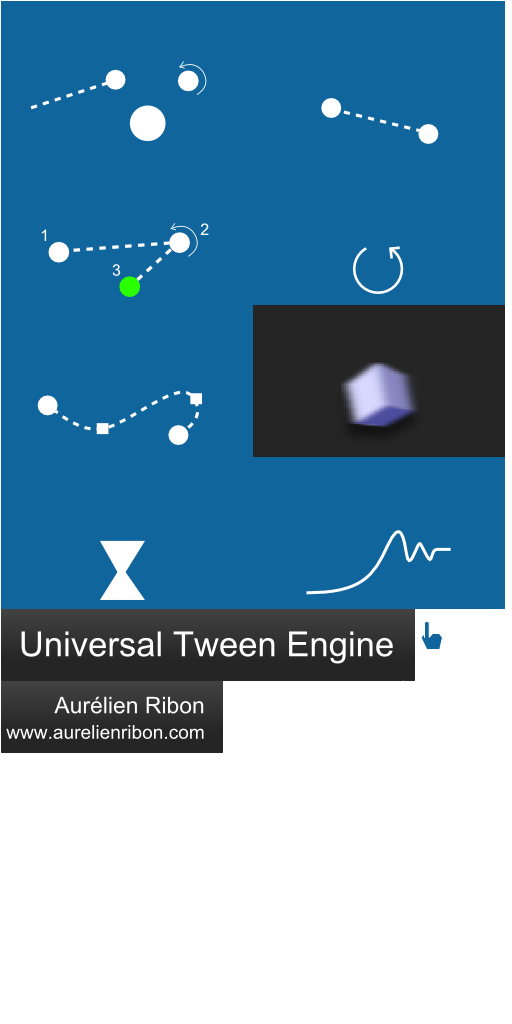
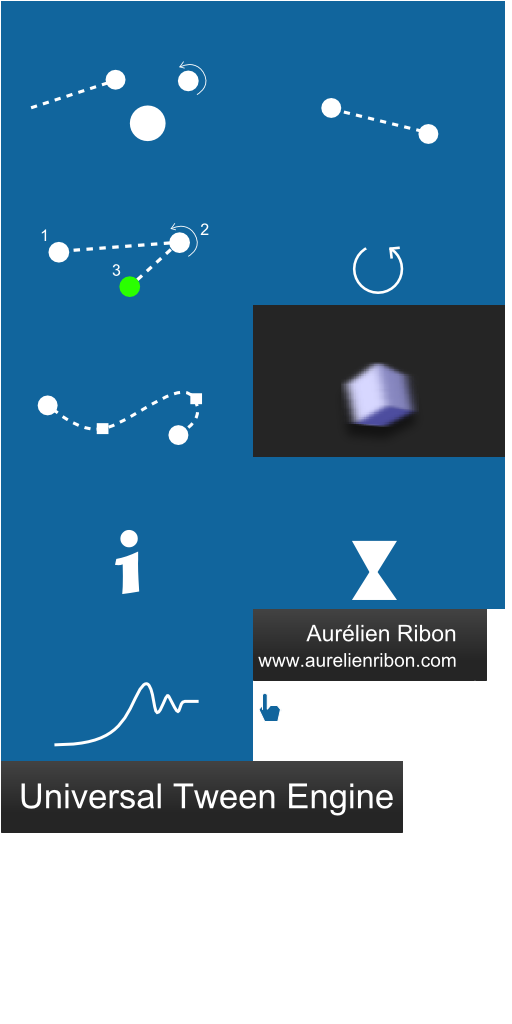
+ (demo) added an 'info' test
--HG--
rename : tween-engine-tests/src/aurelienribon/tweenengine/demo/tests/SimpleTween.java => tween-engine-tests/src/aurelienribon/tweenengine/demo/tests/Info.java

Changed region(s): [[0.0, 0.5, 0.9688, 0.8125]]

diff --git a/tween-engine-tests/src/aurelienribon/tweenengine/demo/App.java b/tween-engine-tests/src/aurelienribon/tweenengine/demo/App.java
@@ -5,6 +5,7 @@ import aurelienribon.tweenengine.BaseTween;
 import aurelienribon.tweenengine.Tween;
 import aurelienribon.tweenengine.TweenCallback;
 import aurelienribon.tweenengine.demo.tests.Functions;
+import aurelienribon.tweenengine.demo.tests.Info;
 import aurelienribon.tweenengine.demo.tests.Intro;
 import aurelienribon.tweenengine.demo.tests.Repetitions;
 import aurelienribon.tweenengine.demo.tests.SimpleTimeline;
@@ -13,12 +14,6 @@ import aurelienribon.tweenengine.demo.tests.TimeManipulation;
 import aurelienribon.tweenengine.demo.tests.Types;
 import aurelienribon.tweenengine.demo.tests.Waypoints;
 import com.badlogic.gdx.ApplicationListener;
-import com.badlogic.gdx.assets.loaders.BitmapFontLoader;
-import com.badlogic.gdx.assets.loaders.FileHandleResolver;
-import com.badlogic.gdx.assets.loaders.TextureAtlasLoader;
-import com.badlogic.gdx.assets.loaders.TextureLoader;
-import com.badlogic.gdx.assets.loaders.resolvers.InternalFileHandleResolver;
-import com.badlogic.gdx.graphics.Texture;
 import com.badlogic.gdx.graphics.g2d.BitmapFont;
 import com.badlogic.gdx.graphics.g2d.Sprite;
 import com.badlogic.gdx.graphics.g2d.TextureAtlas;
@@ -37,10 +32,6 @@ public class App implements ApplicationListener {
 		Tween.setCombinedAttributesLimit(3);
 		Tween.registerAccessor(Sprite.class, new SpriteAccessor());
 
-		FileHandleResolver resolver = new InternalFileHandleResolver();
-		Assets.inst().setLoader(Texture.class, new TextureLoader(resolver));
-		Assets.inst().setLoader(TextureAtlas.class, new TextureAtlasLoader(resolver));
-		Assets.inst().setLoader(BitmapFont.class, new BitmapFontLoader(resolver));
 		Assets.inst().load("data/splash/pack", TextureAtlas.class);
 		Assets.inst().load("data/launcher/pack", TextureAtlas.class);
 		Assets.inst().load("data/test/pack", TextureAtlas.class);
@@ -81,6 +72,7 @@ public class App implements ApplicationListener {
 			@Override public void onEvent(int type, BaseTween source) {
 				Test[] tests = new Test[] {
 					new Intro(),
+					new Info(),
 					new SimpleTween(),
 					new SimpleTimeline(),
 					new Repetitions(),

diff --git a/tween-engine-tests/src/aurelienribon/tweenengine/demo/tests/Info.java b/tween-engine-tests/src/aurelienribon/tweenengine/demo/tests/Info.java
@@ -1,0 +1,74 @@
+package aurelienribon.tweenengine.demo.tests;
+
+import aurelienribon.accessors.SpriteAccessor;
+import aurelienribon.tweenengine.Tween;
+import aurelienribon.tweenengine.TweenManager;
+import aurelienribon.tweenengine.demo.Test;
+import aurelienribon.tweenengine.equations.Linear;
+import com.badlogic.gdx.Gdx;
+import com.badlogic.gdx.InputProcessor;
+
+/**
+ * @author Aurelien Ribon | http://www.aurelienribon.com
+ */
+public class Info extends Test {
+	private final TweenManager tweenManager = new TweenManager();
+	private final String msg;
+
+	public Info() {
+		msg = "The Universal Tween Engine enables the interpolation of every "
+			+ "attributes from any object in any Java project (being an opengl "
+			+ "or java2d game, an android application, a swing/swt interface "
+			+ "or even a console project).\n"
+			+ "\n"
+			+ ":: Project page\n"
+			+ "http://code.google.com/p/java-universal-tween-engine/\n"
+			+ "\n"
+			+ ":: Developer's blog\n"
+			+ "http://www.aurelienribon.com";
+	}
+
+	@Override
+	public String getTitle() {
+		return "Information";
+	}
+
+	@Override
+	public String getInfo() {
+		return null;
+	}
+
+	@Override
+	public String getImageName() {
+		return "tile-info";
+	}
+
+	@Override
+	public InputProcessor getInput() {
+		return null;
+	}
+
+	@Override
+	protected void initializeOverride() {
+		createSprites(1);
+		center(sprites[0], wpw/2-0.8f, -wph/2+0.8f);
+		Tween.to(sprites[0], SpriteAccessor.ROTATION, 3).target(360).ease(Linear.INOUT).repeat(-1, 0).start(tweenManager);
+	}
+
+	@Override
+	protected void disposeOverride() {
+		tweenManager.killAll();
+	}
+
+	@Override
+	protected void renderOverride() {
+		tweenManager.update(Gdx.graphics.getDeltaTime());
+
+		int w = Gdx.graphics.getWidth();
+		int h = Gdx.graphics.getHeight();
+		batch.getProjectionMatrix().setToOrtho2D(0, 0, w, h);
+		batch.begin();
+		font.drawWrapped(batch, msg, 20, h-20, w-40);
+		batch.end();
+	}
+}

diff --git a/tween-engine-tests/src/aurelienribon/tweenengine/demo/Test.java b/tween-engine-tests/src/aurelienribon/tweenengine/demo/Test.java
@@ -38,6 +38,8 @@ public abstract class Test {
 	protected final SpriteBatch batch = new SpriteBatch();
 	protected final Random rand = new Random();
 	protected final BitmapFont font;
+	protected final float wpw = 10;
+	protected final float wph = 10 * Gdx.graphics.getHeight() / Gdx.graphics.getWidth();
 	protected Sprite[] sprites;
 
 	public Test() {
@@ -48,7 +50,7 @@ public abstract class Test {
 
 		int w = Gdx.graphics.getWidth();
 		if (w > 600) font = Assets.inst().get("data/arial-24.fnt", BitmapFont.class);
-		else font = Assets.inst().get("data/arial-20.fnt", BitmapFont.class);
+		else font = Assets.inst().get("data/arial-16.fnt", BitmapFont.class);
 	}
 
 	// -------------------------------------------------------------------------
@@ -80,9 +82,6 @@ public abstract class Test {
 			initializeOverride();
 			return;
 		}
-
-		float wpw = 10;
-		float wph = wpw * Gdx.graphics.getHeight() / Gdx.graphics.getWidth();
 
 		camera.viewportWidth = wpw;
 		camera.viewportHeight = wph;
